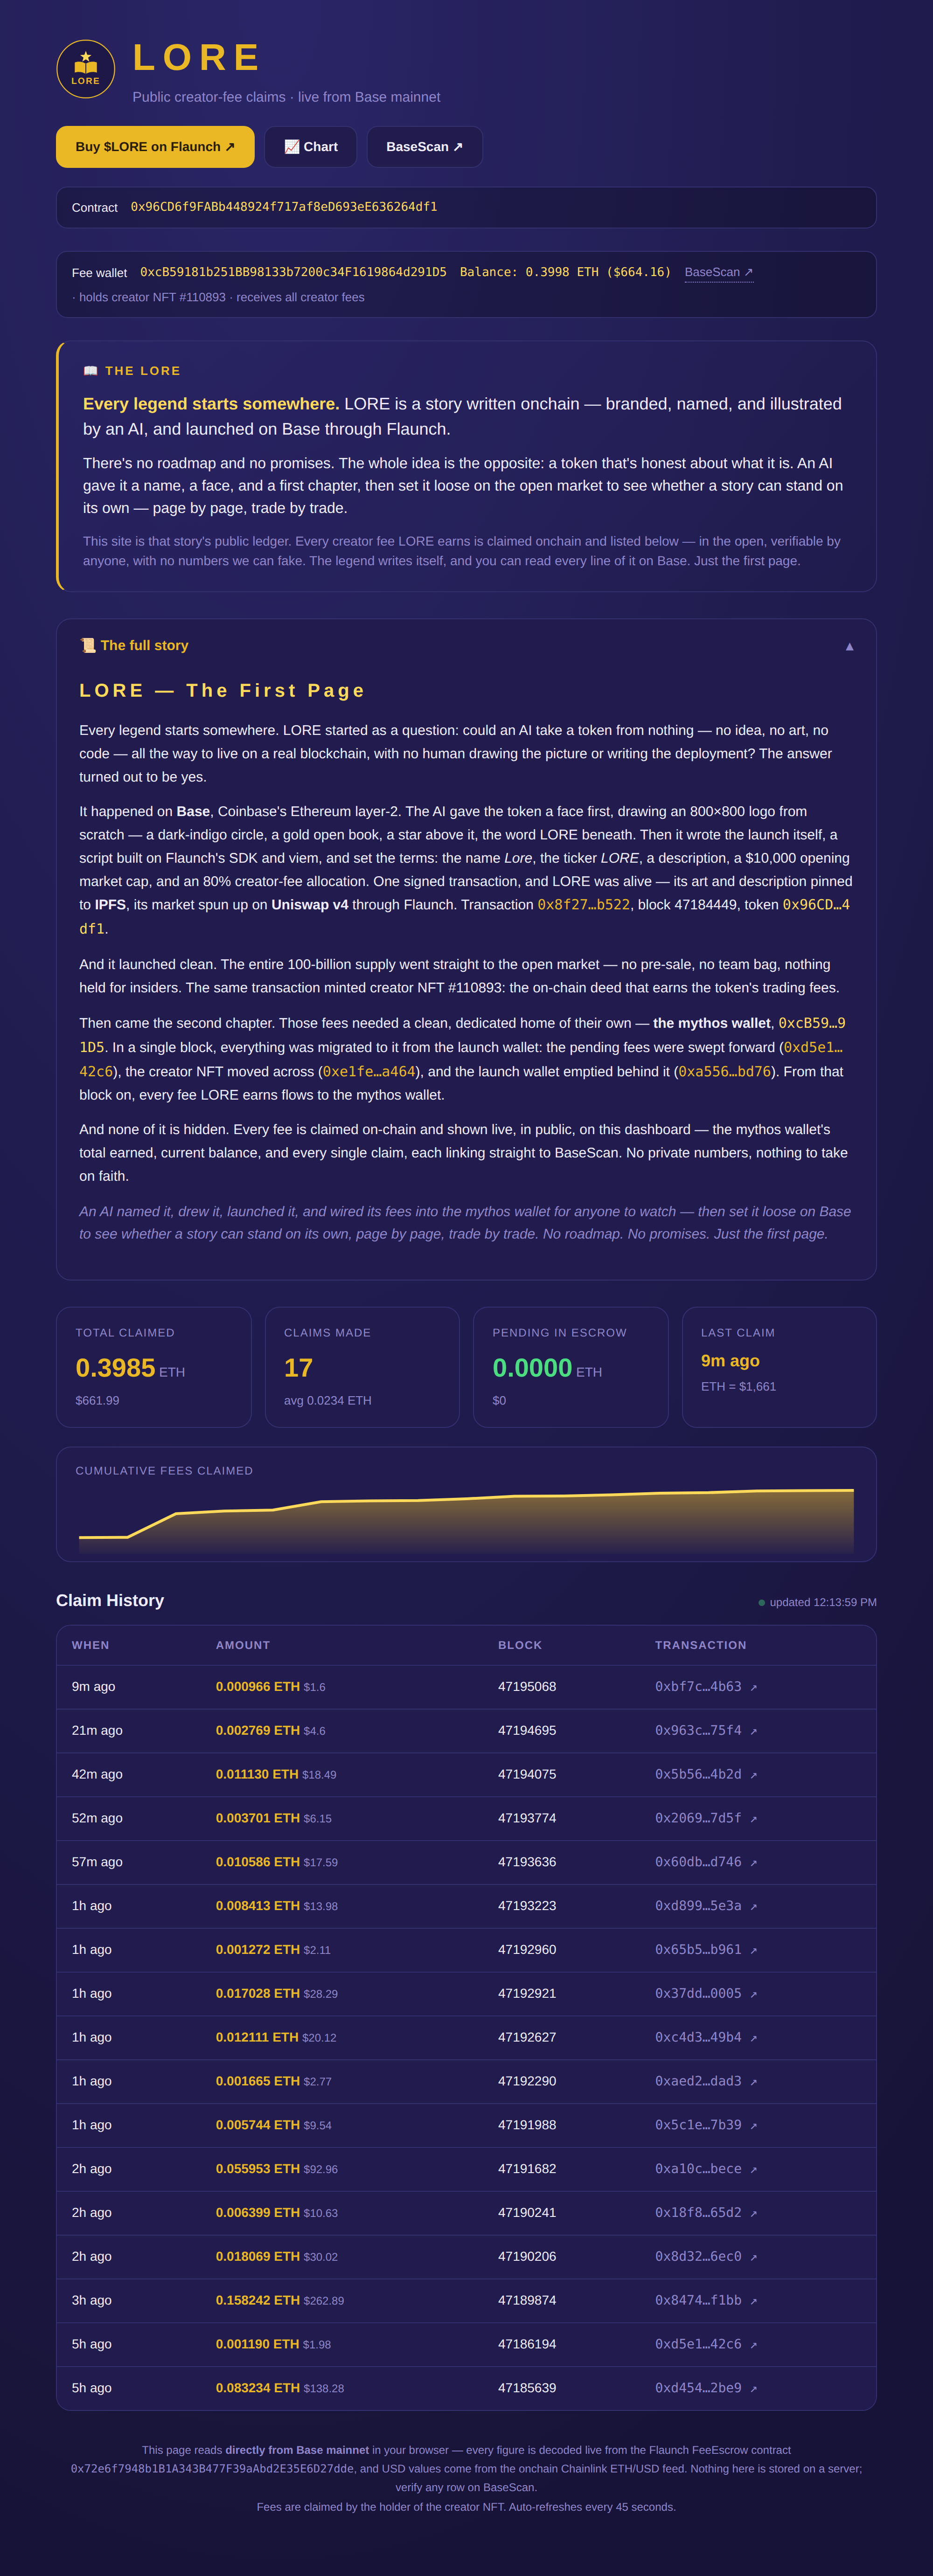
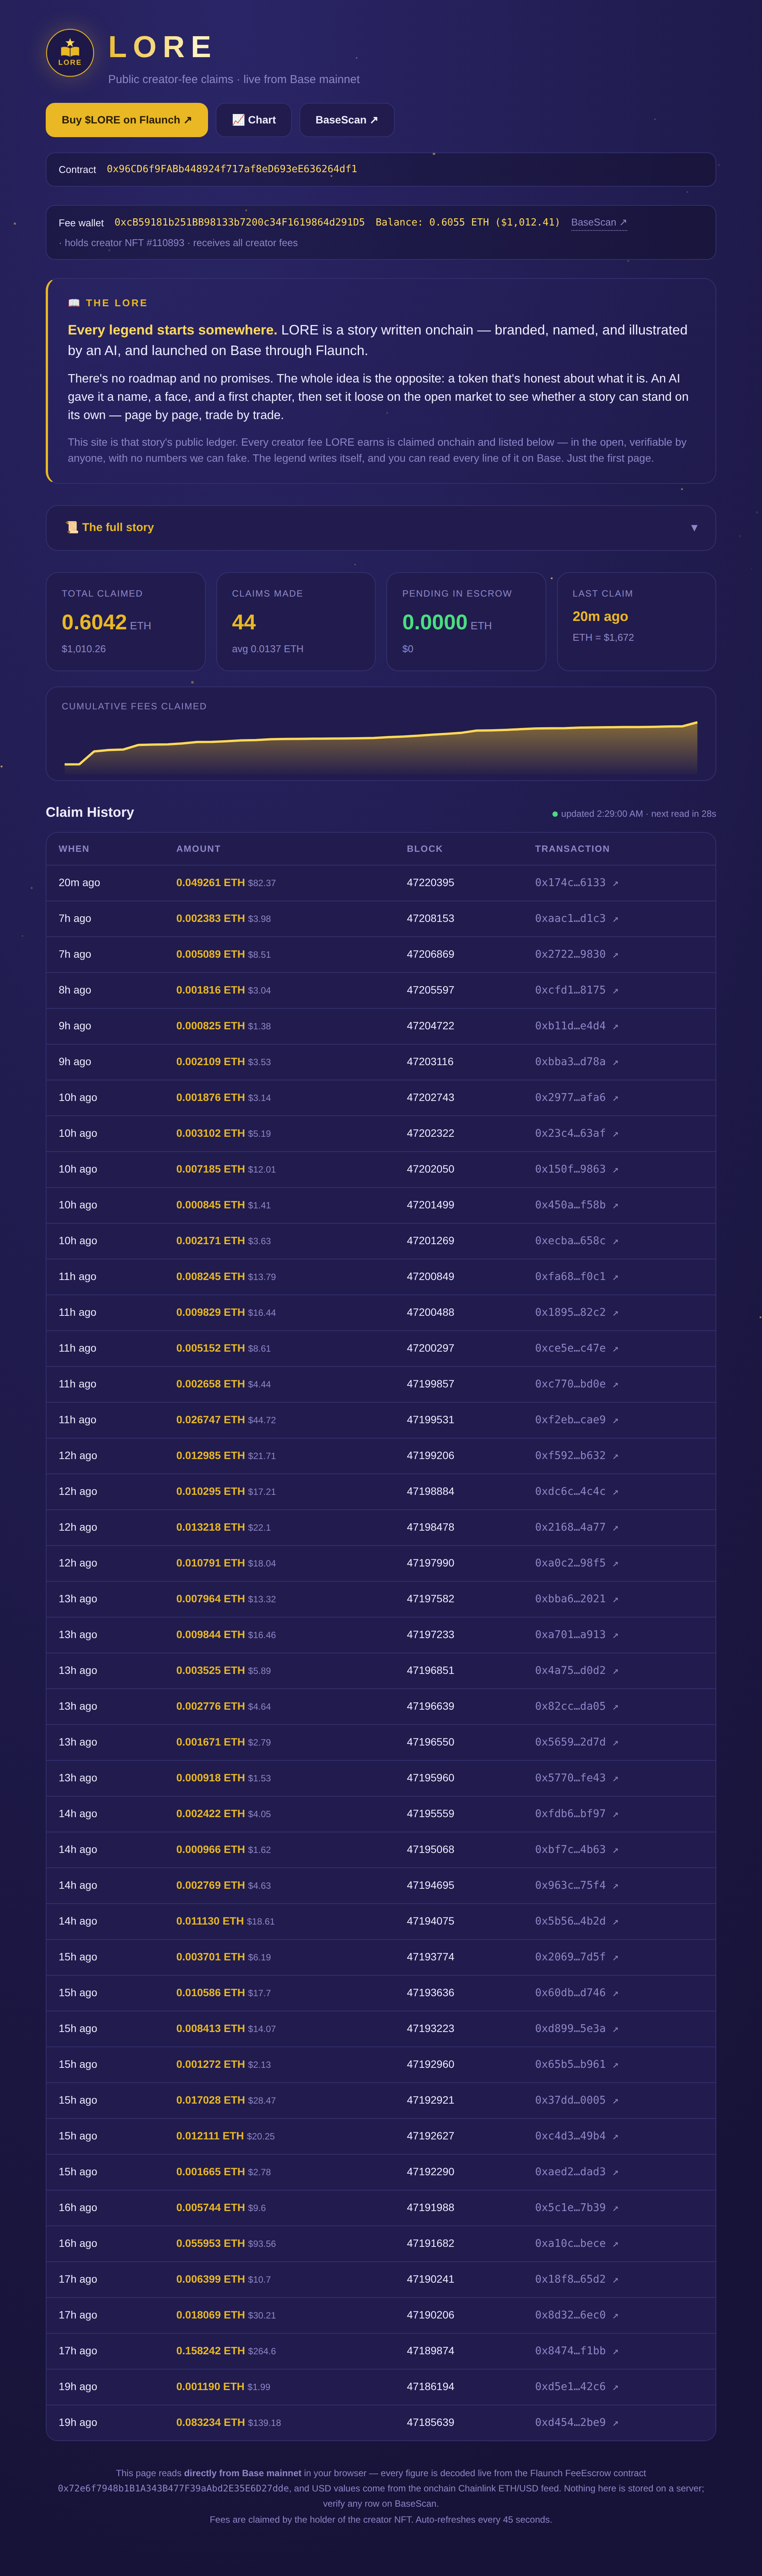
feat(flaunch): bring the dashboard to life
Twinkling starfield + shooting stars, floating logo, shimmering
wordmark, count-up stats, sparkline draw-in, staggered row entrance,
card hover lift, pulsing buy button, live refresh countdown.
Respects prefers-reduced-motion.

https://claude.ai/code/session_01TA1c7CXE6AKycACK9Qfusd

Changed region(s): [[0.062, 0.0, 0.93, 0.9964]]

diff --git a/flaunch/lore-claims/index.html b/flaunch/lore-claims/index.html
@@ -29,18 +29,35 @@
     background: radial-gradient(120% 100% at 30% 0%, var(--indigo-mid), var(--indigo-dark));
     color: var(--text); min-height: 100vh; line-height: 1.5;
   }
-  .wrap { max-width: 920px; margin: 0 auto; padding: 32px 20px 64px; }
+  /* --- life: starfield --- */
+  #stars { position: fixed; inset: 0; z-index: 0; pointer-events: none; overflow: hidden; }
+  #stars .st { position: absolute; border-radius: 50%; background: var(--gold-bright); animation: twinkle var(--d, 4s) ease-in-out var(--dl, 0s) infinite alternate; }
+  @keyframes twinkle { from { opacity: .12; transform: scale(.8); } to { opacity: var(--o, .8); transform: scale(1.15); } }
+  #stars .shoot { position: absolute; width: 130px; height: 2px; border-radius: 2px; opacity: 0;
+    background: linear-gradient(90deg, var(--gold-bright), transparent); transform: rotate(-28deg);
+    animation: shoot 9s linear var(--dl, 0s) infinite; }
+  @keyframes shoot {
+    0%, 92% { opacity: 0; transform: translate(0,0) rotate(-28deg); }
+    93% { opacity: .9; }
+    100% { opacity: 0; transform: translate(-480px, 255px) rotate(-28deg); }
+  }
+  .wrap { max-width: 920px; margin: 0 auto; padding: 32px 20px 64px; position: relative; z-index: 1; }
   header { display: flex; align-items: center; gap: 18px; margin-bottom: 18px; }
-  header svg { width: 64px; height: 64px; flex: none; }
-  h1 { font-size: 40px; letter-spacing: 8px; margin: 0; color: var(--gold); font-weight: 800; }
+  header svg { width: 64px; height: 64px; flex: none; animation: floaty 6s ease-in-out infinite; filter: drop-shadow(0 0 14px rgba(233,184,36,.25)); }
+  @keyframes floaty { 0%,100% { transform: translateY(0); } 50% { transform: translateY(-6px); } }
+  h1 { font-size: 40px; letter-spacing: 8px; margin: 0; font-weight: 800;
+    background: linear-gradient(90deg, var(--gold) 20%, #fff3c4 40%, var(--gold) 60%); background-size: 200% 100%;
+    -webkit-background-clip: text; background-clip: text; color: transparent; animation: shimmer 7s linear infinite; }
+  @keyframes shimmer { from { background-position: 200% 0; } to { background-position: 0% 0; } }
   .tagline { color: var(--muted); margin: 2px 0 0; font-size: 15px; }
   .actions { display: flex; flex-wrap: wrap; gap: 10px; margin-bottom: 20px; }
   .btn { display: inline-flex; align-items: center; gap: 7px; padding: 11px 20px; border-radius: 12px; font-size: 14px; font-weight: 700; text-decoration: none; cursor: pointer; border: 1px solid var(--line); transition: transform .08s, filter .15s; }
   .btn:active { transform: translateY(1px); }
-  .btn.primary { background: var(--gold); color: #2a1d00; border-color: var(--gold); }
+  .btn.primary { background: var(--gold); color: #2a1d00; border-color: var(--gold); animation: glowpulse 3.2s ease-in-out infinite; }
   .btn.primary:hover { filter: brightness(1.08); }
+  @keyframes glowpulse { 0%,100% { box-shadow: 0 0 0 rgba(233,184,36,0); } 50% { box-shadow: 0 0 22px rgba(233,184,36,.45); } }
   .btn.ghost { background: var(--indigo-card); color: var(--text); }
-  .btn.ghost:hover { border-color: var(--gold); color: var(--gold-bright); }
+  .btn.ghost:hover { border-color: var(--gold); color: var(--gold-bright); transform: translateY(-2px); }
   .contract {
     margin: 0 0 24px; padding: 12px 16px; background: rgba(0,0,0,.22);
     border: 1px solid var(--line); border-radius: 12px; font-size: 13px;
@@ -71,7 +88,12 @@
   .story .body a:hover { text-decoration: underline; }
   .story .body code { color: var(--gold-bright); font-family: ui-monospace, monospace; word-break: break-all; }
   .cards { display: grid; grid-template-columns: repeat(auto-fit, minmax(160px, 1fr)); gap: 14px; margin-bottom: 20px; }
-  .card { background: var(--indigo-card); border: 1px solid var(--line); border-radius: 16px; padding: 18px 20px; }
+  .card { background: var(--indigo-card); border: 1px solid var(--line); border-radius: 16px; padding: 18px 20px;
+    transition: transform .18s ease, border-color .18s ease, box-shadow .18s ease; animation: fadeup .6s ease both; }
+  .card:nth-child(2) { animation-delay: .08s; } .card:nth-child(3) { animation-delay: .16s; } .card:nth-child(4) { animation-delay: .24s; }
+  .card:hover { transform: translateY(-3px); border-color: var(--gold); box-shadow: 0 8px 24px rgba(0,0,0,.35); }
+  @keyframes fadeup { from { opacity: 0; transform: translateY(10px); } to { opacity: 1; transform: translateY(0); } }
+  tr.enter { animation: fadeup .5s ease both; }
   .card .label { color: var(--muted); font-size: 12px; text-transform: uppercase; letter-spacing: 1px; margin-bottom: 8px; }
   .card .value { font-size: 28px; font-weight: 700; color: var(--gold); }
   .card .value small { font-size: 14px; color: var(--muted); font-weight: 400; }
@@ -111,6 +133,7 @@
 </style>
 </head>
 <body>
+<div id="stars" aria-hidden="true"></div>
 <div class="wrap">
   <header>
     <svg viewBox="0 0 800 800" xmlns="http://www.w3.org/2000/svg">
@@ -181,7 +204,7 @@
 
   <div class="section-title">
     <h2>Claim History</h2>
-    <span class="status"><span class="dot"></span><span id="status">loading…</span></span>
+    <span class="status"><span class="dot"></span><span id="status">loading…</span><span id="next"></span></span>
   </div>
   <div class="table-wrap">
     <table>
@@ -259,7 +282,43 @@ function sparkline(claimsAsc) {
 }
 
 let lastTopTx = null;
-let priceWei = 0;
+let firstLoad = true;
+let nextRefreshAt = 0;
+const REFRESH_MS = 45000;
+const motionOK = !window.matchMedia("(prefers-reduced-motion: reduce)").matches;
+
+// starfield
+(function stars() {
+  const c = document.getElementById("stars");
+  if (!motionOK) return;
+  let html = "";
+  for (let i = 0; i < 44; i++) {
+    const s = (Math.random() * 2 + 1.2).toFixed(1);
+    html += `<span class="st" style="left:${(Math.random() * 100).toFixed(2)}%;top:${(Math.random() * 100).toFixed(2)}%;width:${s}px;height:${s}px;--d:${(Math.random() * 4 + 2.5).toFixed(1)}s;--dl:${(Math.random() * 5).toFixed(1)}s;--o:${(Math.random() * .5 + .4).toFixed(2)}"></span>`;
+  }
+  html += `<span class="shoot" style="left:72%;top:8%;--dl:3s"></span>`;
+  html += `<span class="shoot" style="left:38%;top:2%;--dl:11s"></span>`;
+  c.innerHTML = html;
+})();
+
+// animated count-up for stat values
+function countUp(el, target, suffixHTML, dp) {
+  if (!motionOK || !firstLoad) { el.innerHTML = target.toFixed(dp) + suffixHTML; return; }
+  const t0 = performance.now(), dur = 1100;
+  (function tick(t) {
+    const p = Math.min(1, (t - t0) / dur), e = 1 - Math.pow(1 - p, 3);
+    el.innerHTML = (target * e).toFixed(dp) + suffixHTML;
+    if (p < 1) requestAnimationFrame(tick);
+  })(t0);
+}
+
+// live countdown to next refresh
+setInterval(() => {
+  const el = document.getElementById("next");
+  if (!nextRefreshAt) return;
+  const s = Math.max(0, Math.ceil((nextRefreshAt - Date.now()) / 1000));
+  el.textContent = " · next read " + (s > 0 ? "in " + s + "s" : "now…");
+}, 1000);
 
 async function load() {
   const errEl = document.getElementById("err");
@@ -293,11 +352,11 @@ async function load() {
     const walletBal = BigInt(balHex);
     const price = Number(BigInt("0x" + priceHex.slice(2).slice(64, 128))) / 1e8; // ETH/USD, 8 decimals
 
-    document.getElementById("total").innerHTML = fmt(total) + "<small> ETH</small>";
+    countUp(document.getElementById("total"), eth(total), "<small> ETH</small>", 4);
     document.getElementById("total-usd").textContent = usd(total, price);
     document.getElementById("count").textContent = claims.length;
     document.getElementById("avg").textContent = claims.length ? "avg " + fmt(total / BigInt(claims.length), 4) + " ETH" : "";
-    document.getElementById("pending").innerHTML = fmt(pending) + "<small> ETH</small>";
+    countUp(document.getElementById("pending"), eth(pending), "<small> ETH</small>", 4);
     document.getElementById("pending-usd").textContent = usd(pending, price);
     document.getElementById("last").textContent = claims.length ? ago(tsMap[claims[0].block.toString()]) : "—";
     document.getElementById("ethusd").textContent = price ? "ETH = $" + price.toLocaleString("en-US", { maximumFractionDigits: 0 }) : "";
@@ -307,8 +366,8 @@ async function load() {
 
     const newTop = claims.length ? claims[0].tx : null;
     const isNew = (tx) => lastTopTx !== null && tx === newTop && newTop !== lastTopTx;
-    document.getElementById("rows").innerHTML = claims.length ? claims.map((c) => `
-      <tr class="${isNew(c.tx) ? "flash" : ""}">
+    document.getElementById("rows").innerHTML = claims.length ? claims.map((c, i) => `
+      <tr class="${isNew(c.tx) ? "flash" : ""}${firstLoad && motionOK ? " enter" : ""}"${firstLoad && motionOK ? ` style="animation-delay:${Math.min(i * 70, 700)}ms"` : ""}>
         <td>${ago(tsMap[c.block.toString()])}</td>
         <td class="amt">${fmt(c.amount, 6)} ETH <span class="usd-cell">${usd(c.amount, price)}</span></td>
         <td class="col-block">${c.block}</td>
@@ -316,12 +375,27 @@ async function load() {
       </tr>`).join("") : `<tr><td colspan="4" class="empty">No claims yet</td></tr>`;
     lastTopTx = newTop;
 
+    // draw-in animation for the sparkline on first load
+    if (firstLoad && motionOK) {
+      const path = document.querySelector("#spark svg path[stroke]");
+      if (path && path.getTotalLength) {
+        const len = path.getTotalLength();
+        path.style.strokeDasharray = len;
+        path.style.strokeDashoffset = len;
+        path.style.transition = "stroke-dashoffset 1.6s ease";
+        requestAnimationFrame(() => requestAnimationFrame(() => { path.style.strokeDashoffset = "0"; }));
+      }
+    }
+
     document.getElementById("status").textContent = "updated " + new Date().toLocaleTimeString();
     errEl.style.display = "none";
+    firstLoad = false;
+    nextRefreshAt = Date.now() + REFRESH_MS;
   } catch (e) {
     errEl.textContent = "Couldn't reach Base RPC: " + (e.message || e) + " — retrying…";
     errEl.style.display = "block";
     document.getElementById("status").textContent = "retrying…";
+    nextRefreshAt = Date.now() + REFRESH_MS;
   }
 }
 
@@ -342,7 +416,7 @@ function copyOnClick(el, text) {
 copyOnClick(document.getElementById("token-addr"), TOKEN);
 copyOnClick(document.getElementById("wallet-addr"), FEE_WALLET_DISPLAY);
 load();
-setInterval(load, 45000);
+setInterval(load, REFRESH_MS);
 </script>
 </body>
 </html>